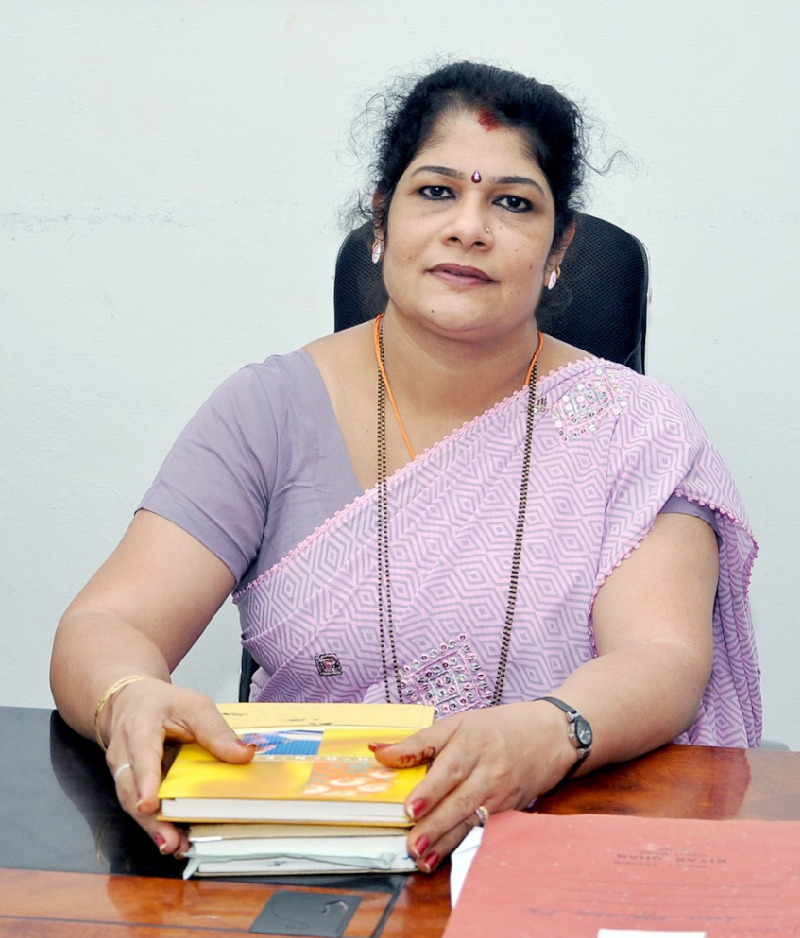
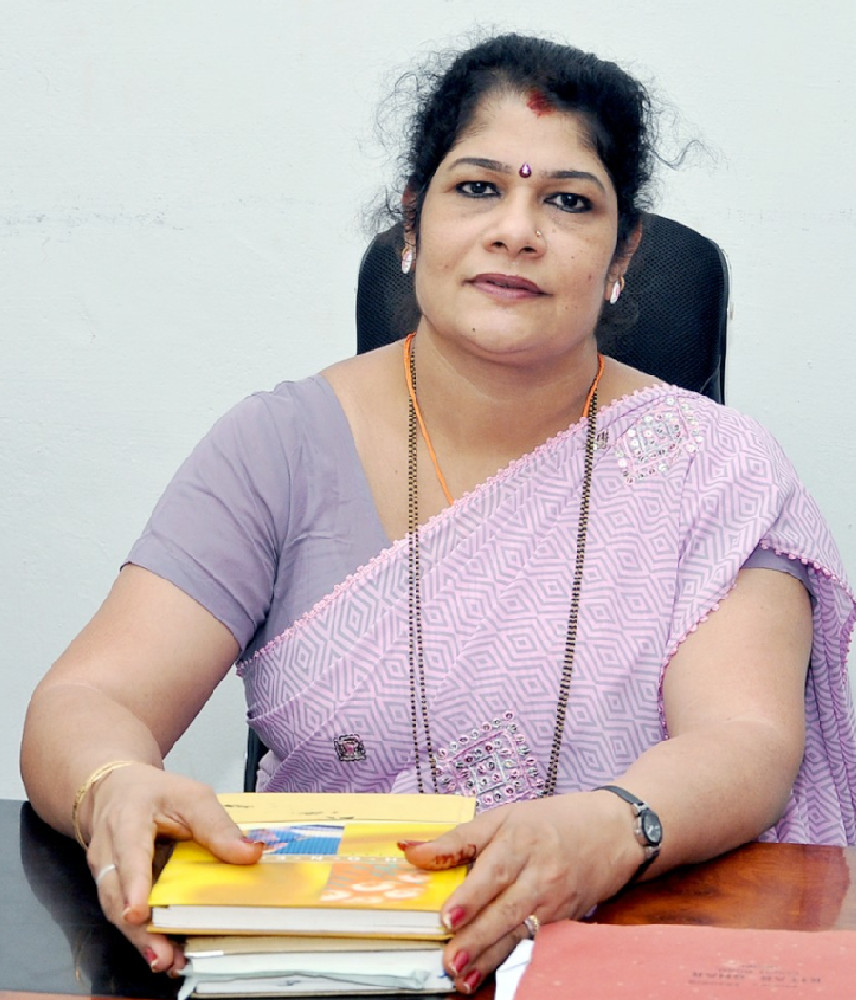
msg

diff --git a/src/components/Hero.js b/src/components/Hero.js
@@ -6,7 +6,7 @@ import "swiper/css";
 import "swiper/css/navigation";
 import "swiper/css/pagination";
 import Image from 'next/image';
-import Hero1 from '/public/College.jpeg'; 
+import Hero1 from '/public/Hero1.jpeg'; 
 import Hero2 from '/public/Hero2.jpeg'
 
 const Hero = () => {
@@ -15,7 +15,7 @@ const Hero = () => {
       <div className="mx-auto max-w-screen-xl px-4 py-8 sm:px-6 sm:py-12 lg:px-8 lg:py-16">
         <div className="grid grid-cols-1 gap-8 lg:grid-cols-2 lg:gap-16">
           <div className="relative overflow-hidden rounded-lg h-64 sm:h-80 lg:h-[600px]">
-            <Swiper
+          <Swiper
               navigation={true}
               modules={[Navigation]}
               className="h-full w-full"
@@ -24,16 +24,18 @@ const Hero = () => {
                 <Image
                   alt="Slide 1"
                   src={Hero1}
-                 layout="fill" 
-                  objectFit="cover"
+                  className="w-full h-full object-fit"
+                  width={600}  // Set the fixed width
+                  height={400} // Set the fixed height
                 />
               </SwiperSlide>
               <SwiperSlide>
                 <Image
                   alt="Slide 2"
                   src={Hero2}
-                  layout="fill" 
-                  objectFit="fill"
+                  className="w-full h-full object-fit"
+                  width={600}  // Set the fixed width
+                  height={400} // Set the fixed height
                 />
               </SwiperSlide>
               {/* Add more SwiperSlides here as needed */}
